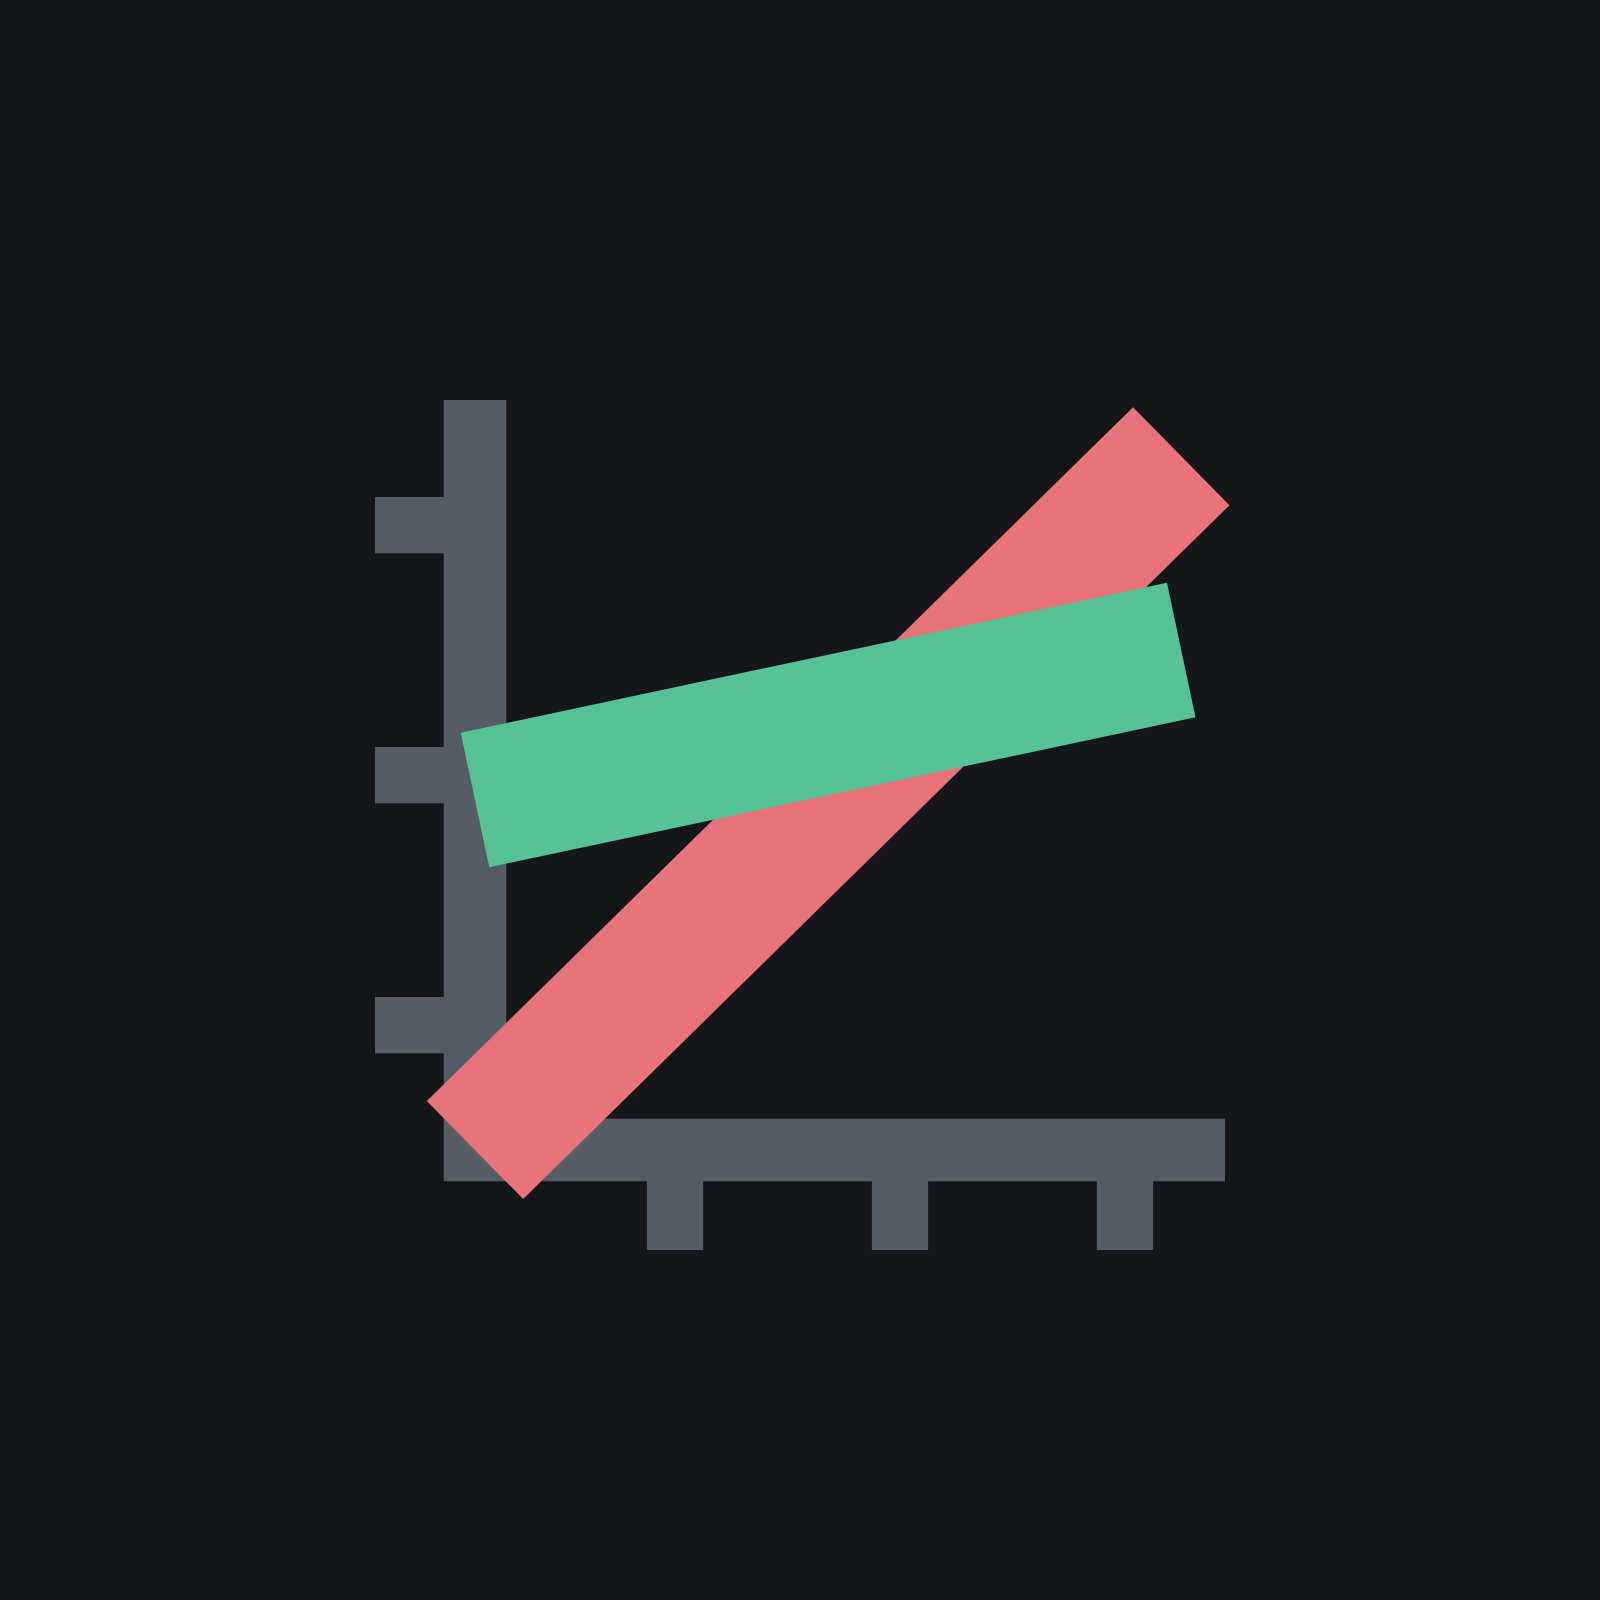
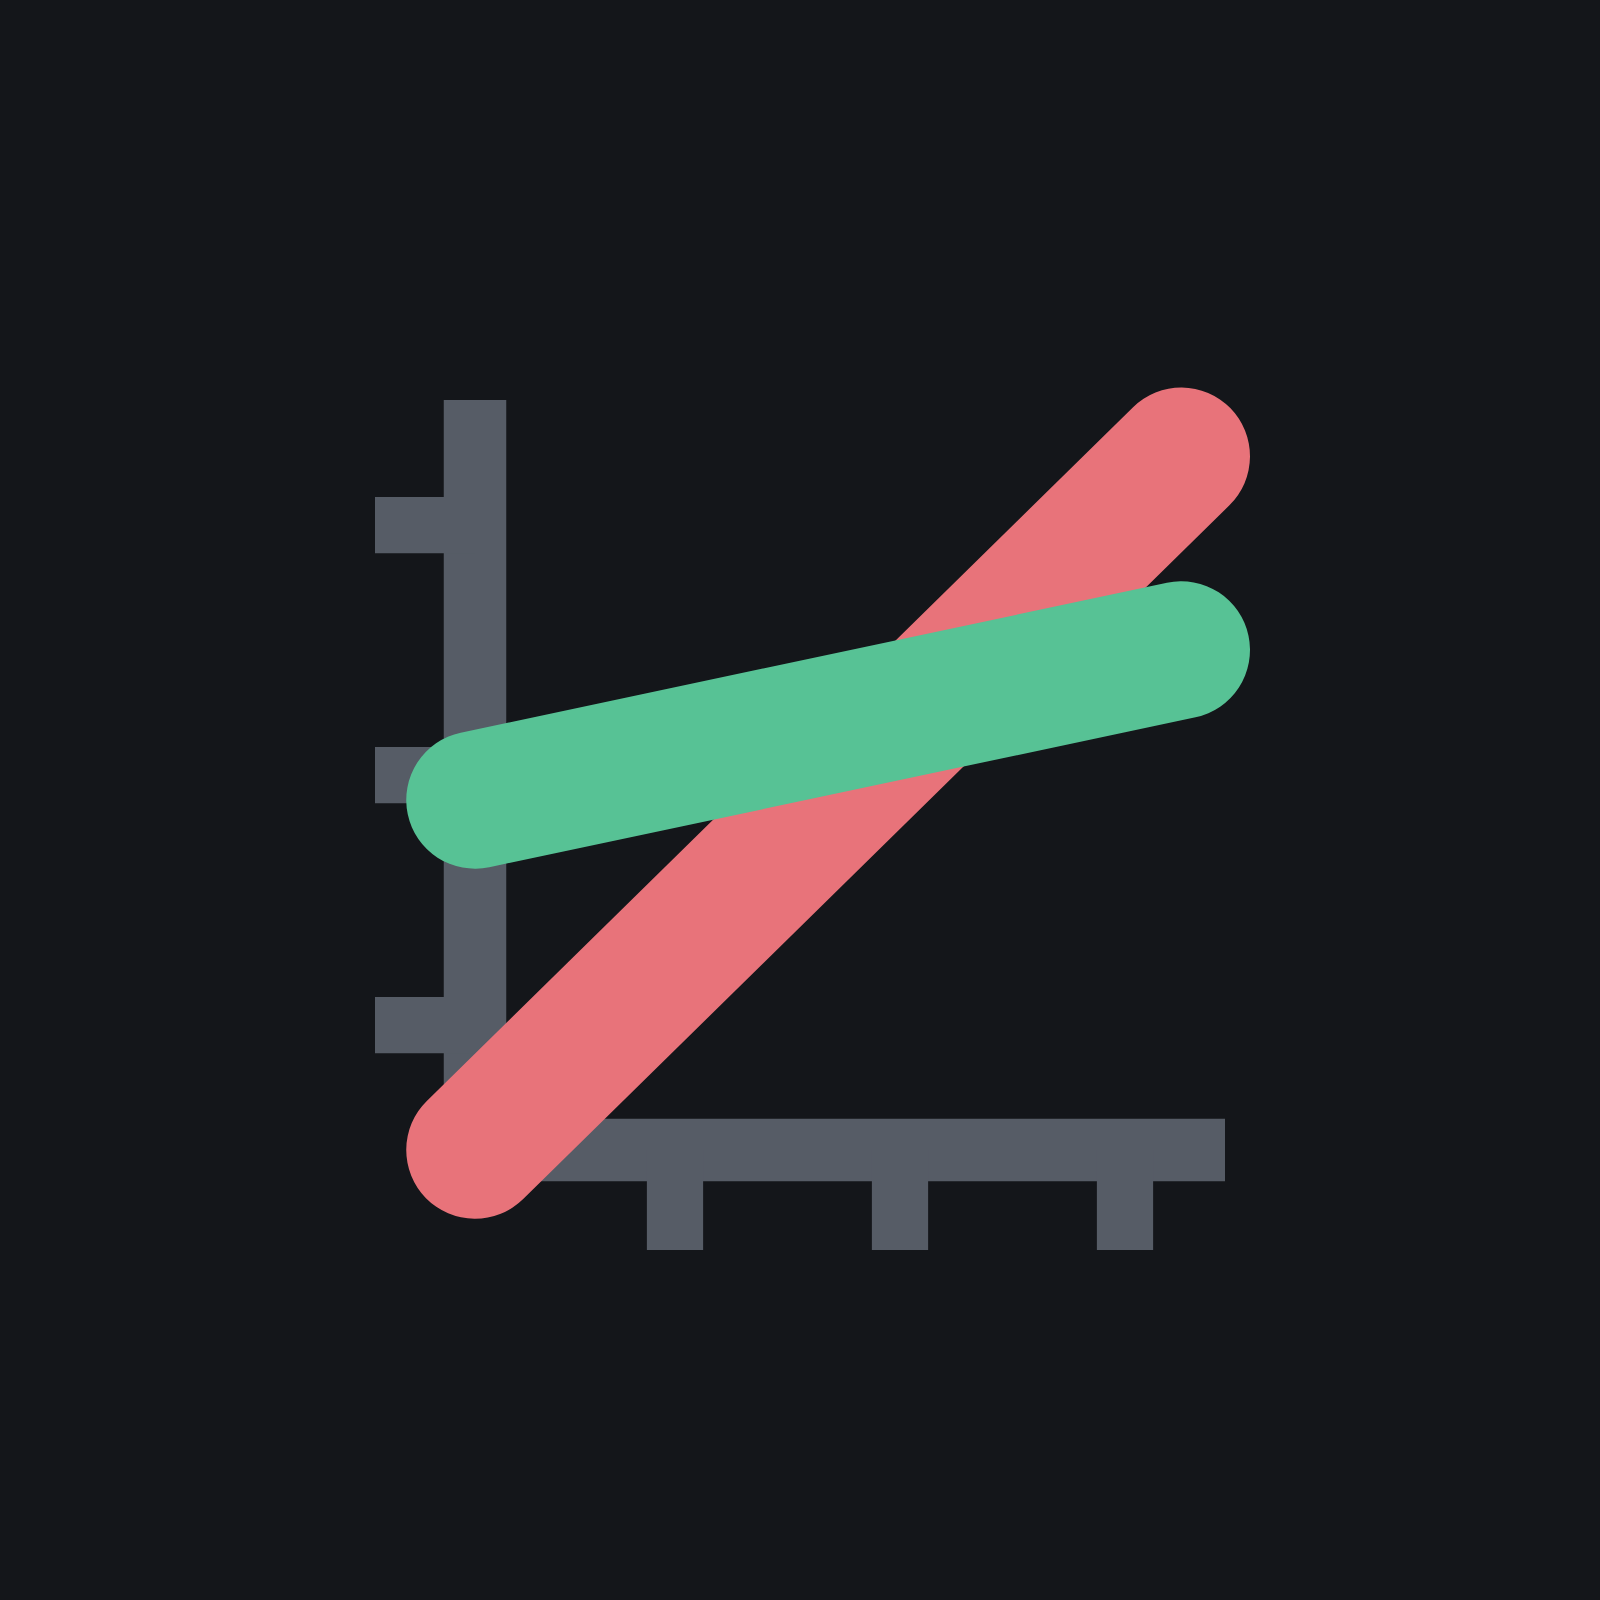
feat: music bed, rounded crossing, and a handoff document
The mark's data lines take rounded caps now — square ends meeting at the
crossing read as a hard corner, while rounded ones let the two lines pass
through each other cleanly. The axis keeps square ends, because an axis is a
rule rather than a stroke.

Videos carry a music bed: 32 seconds cut from a track the owner supplied,
faded in and out and levelled for music-only playback. It is a direct child of
the composition root, because the runtime only drives media that sits there and
anything nested renders silent. The mp3 stays out of git and
video/assets/bgm/LICENCE.json records its provenance with licence UNCONFIRMED
and blocks_public_release set — the project records where every price came
from, and a track shipping in thirty public videos deserves the same treatment.

Found while doing it: `nohup node video/build.js --render` ran on Node 18,
because a detached shell does not source nvm. Every render failed with a clear
message nobody read, and the script exited 0 — leaving thirty stale videos that
looked freshly built, one of which I had already sent for review. Batch renders
now check their own runtime up front and exit non-zero if any render fails.
Silence is the worst possible outcome for a build step.

Adds HANDOFF.md, so this can be picked up cold: current state, what runs
unattended, what is blocked and on whom, the rules that are enforced by tests
rather than convention, and every trap that has actually cost time — with the
[…]

diff --git a/video/build.js b/video/build.js
@@ -21,6 +21,7 @@ const { readJson, listJson, p } = require('../pipeline/lib/store.js');
 const chart = require('../site/assets/chart.js');
 
 const OUT = path.join(__dirname, 'out');
+const BGM_SRC = path.join(__dirname, 'assets', 'bgm', 'bed.mp3');
 const SITE_URL = (process.env.SITE_URL || 'nimbussage.github.io/exit-cost').replace(/^https?:\/\//, '');
 let TOTAL_ESCAPES = 20;
 
@@ -41,7 +42,7 @@ const MARK = `<svg viewBox="0 0 512 512" aria-hidden="true">
     <path d="M152 128 L152 368 L392 368" stroke-width="20"/>
     <g stroke-width="18"><path d="M120 168 H152 M120 248 H152 M120 328 H152"/><path d="M216 400 V368 M288 400 V368 M360 400 V368"/></g>
   </g>
-  <g fill="none" stroke-linecap="butt">
+  <g fill="none" stroke-linecap="round">
     <path d="M152 368 L378 146" stroke="#a81e27" stroke-width="44"/>
     <path d="M152 256 L378 208" stroke="#0b5137" stroke-width="44"/>
   </g></svg>`;
@@ -91,6 +92,8 @@ function chartSvg(e) {
   parts.push('</svg>');
   return parts.join('');
 }
+
+const BGM = fs.existsSync(BGM_SRC);
 
 function composition(e) {
   const r = e.result;
@@ -155,6 +158,10 @@ function composition(e) {
 <body>
 <div id="root" data-composition-id="short" data-width="${W}" data-height="${H}" data-duration="${DUR}" data-fps="${FPS}">
   <div class="bg"></div>
+${BGM ? `
+  <!-- Music bed. A direct child of the composition root: the runtime only drives
+       media that sits here, and anything nested renders silent. -->
+  <audio id="bgm" src="assets/bgm/bed.mp3" data-start="0" data-duration="${DUR}" data-track-index="0" data-volume="1"></audio>` : ''}
 
   <section id="scene-bill" class="clip" data-start="0" data-duration="5" data-track-index="1">
     <p class="kicker" id="s1-k">You pay for <b>${esc(inc)}</b>${seats > 1 ? `, ${seats} seats` : ''}.</p>
@@ -277,7 +284,17 @@ function main() {
   console.log(`generated ${made.length} compositions in video/out`);
 
   if (render) {
-    const bin = path.join(__dirname, '..', 'node_modules', '.bin', 'hyperframes');
+    // Fail early and legibly. A detached shell does not source nvm, so this
+    // silently ran on Node 18 and every render failed with a message nobody
+    // read — leaving thirty stale videos that looked freshly built.
+    const major = Number(process.versions.node.split('.')[0]);
+    if (major < 22) {
+      console.error(`FATAL: rendering needs Node >= 22, this is ${process.versions.node}.`);
+      console.error('       In a detached shell, source nvm first:');
+      console.error('       . "$HOME/.nvm/nvm.sh" && nvm use 22 && node video/build.js --render');
+      process.exit(1);
+    }
+    const failures = [];
     for (const m of made) {
       const outFile = path.join(OUT, `${m.slug}.mp4`);
       console.log(`rendering ${m.slug} ...`);
@@ -286,8 +303,14 @@ function main() {
           { stdio: 'inherit', env: { ...process.env, HYPERFRAMES_SKIP_SKILLS: '1' } });
       } catch (err) {
         console.error(`  render failed for ${m.slug}`);
+        failures.push(m.slug);
       }
     }
+    if (failures.length) {
+      console.error(`\n${failures.length} of ${made.length} renders failed: ${failures.join(', ')}`);
+      process.exit(1);
+    }
+    console.log(`rendered ${made.length} videos`);
   }
   return made;
 }

diff --git a/HANDOFF.md b/HANDOFF.md
@@ -1,0 +1,175 @@
+# Handoff
+
+Read this first if you are picking this up cold. It is the state of things, the
+rules that are not obvious from the code, and the traps that have already cost
+time. `README.md` is the pitch; this is the operating manual.
+
+Last updated: 2026-09-21, day 22.
+
+---
+
+## What this is
+
+Exit Cost computes the real cost of leaving a SaaS subscription, **including the
+operator's own time**, and publishes the hourly rate at which the answer flips.
+That rate is the only original thing here; everything else is plumbing around it.
+
+Live: https://nimbussage.github.io/exit-cost/ · Repo: NimbusSage/exit-cost
+
+The goal is $100/day with near-zero operating cost. It is not there. It earns
+through one referral programme and has no measured traffic yet.
+
+---
+
+## State
+
+| | |
+|---|---|
+| Comparisons live | 30 — 19 switch, 1 marginal, 10 stay |
+| Tests | 253, all passing (`npm test`) |
+| Preflight | 8/8 (`npm run verify`) |
+| Unattended nightly runs | 22 consecutive days, zero drift |
+| Prices self-confirming | 20 of 21 |
+| Revenue | Vultr referral on 23 pages. Nothing else. |
+| Traffic | Unmeasured. Search Console verified, no data yet. |
+| Deployment kits | 3, each deployed and verified by running it |
+| Videos | 30 rendered, none published |
+
+Gate 1 (30 comparisons + 7 unattended days) is met. Gates 2–4 depend on traffic
+and cannot be evaluated.
+
+---
+
+## What runs without anyone
+
+- **Nightly 05:17 UTC** (`.github/workflows/publish.yml`) — refresh every
+  hosting catalogue and vendor pricing page, rebuild, redeploy, then smoke-test
+  the live site and fail loudly if it broke. Commits refreshed prices back, which
+  is the audit trail.
+- **Mondays 14:00 UTC** (`.github/workflows/report.yml`) — files the weekly
+  report as a GitHub issue, which emails the owner.
+
+If you change anything that affects published numbers, run `npm test &&
+npm run verify` before pushing. CI runs both anyway.
+
+---
+
+## Blocked on a human
+
+1. **YouTube consent.** `ops/youtube-auth.mjs` must be run on a machine with a
+   browser; a loopback redirect cannot reach a headless server. It prints a
+   refresh token for `YOUTUBE_REFRESH_TOKEN`. Until then nothing can be
+   published. `pipeline/publish/youtube.js` is built and waiting.
+2. **The music bed's licence.** `video/assets/bgm/LICENCE.json` is marked
+   UNCONFIRMED and `blocks_public_release: true`. Do not publish a video using
+   it until the source is confirmed.
+3. **Analytics.** Search Console is verified but has no data. Gates 2 and 3 are
+   unanswerable until it does.
+
+---
+
+## Rules that are not negotiable
+
+Enforced by tests, not convention. Do not weaken them to make something pass.
+
+- A collector that fails keeps the last known value and **never** advances
+  `verified_at`.
+- An unknown cost makes a comparison refuse to compute rather than approximate.
+- Prices past their freshness window do not publish.
+- A dormant or archived upstream project blocks publication regardless of price.
+- Affiliate links never touch provider selection. That is a pure function of
+  price and requirements, and `test/affiliates.test.js` asserts the published
+  numbers are byte-identical with and without a programme active.
+- If every comparison ever says "switch", `ops/verify.js` fails the build. A
+  site where self-hosting always wins is an advert, not a comparison.
+- Never state a URL, price or programme term that has not been fetched in this
+  session. Four invented affiliate URLs cost a day.
+
+---
+
+## Traps that have actually bitten
+
+Each of these cost real time. They are pinned by regression tests; if a test
+here looks strange, this is why.
+
+- **"Billed annually" is a cadence, not a unit.** "$20 per seat/month, billed
+  annually" is $20 a *month*. Reading it as yearly is a 12x error.
+- **A price belongs to the last plan name before it.** Any window that searches
+  backwards lets a "contact sales" tier inherit the price above it. In the
+  PikaPods catalogue the price *follows* its app — reading the preceding one
+  shifts every price by a row.
+- **The extractor needs the page's other tier names**, not just the plans we
+  store, or untracked tiers bleed their prices into tracked ones
+  (`page_plan_names` in `data/saas.json`).
+- **Some vendors never state a field near the price.** Vercel's headline omits
+  that it is per developer seat. A plan declares `check_ignores` with an
+  `extraction_note`; the amount itself can never be exempt.
+- **`pg_isready` lies during startup.** It answers yes to the temporary
+  postmaster `initdb` runs, so a healthcheck goes green before the database
+  exists. Query the database instead.
+- **One failed fetch must not erase a provider.** It did, and took the only
+  revenue link off every page while everything looked healthy. Exclusion is by
+  `verified_at` age, never by "the last fetch failed".
+- **HTTP 200 is not evidence a deploy works.** A deploy once returned 200 on
+  every URL while serving a completely unstyled page. `ops/smoke.js` follows the
+  live page's own references.
+- **`site/build.js` clears `dist/` every run.** Root-level files that must
+  survive (search-engine verification) go in `site/static/`.
+- **Test files run in parallel and two of them build the site.** Each builds
+  into its own temp directory via `EXITCOST_DIST`.
+- **`p()` in `pipeline/lib/store.js` joins against the repo root.** Passing it an
+  absolute path writes to a nested duplicate tree.
+- **A detached shell does not source nvm.** `nohup node video/build.js --render`
+  ran on Node 18, every render failed, and the script exited 0 — leaving thirty
+  stale videos that looked freshly built. Batch renders now check their own
+  runtime and exit non-zero on any failure. Background anything long as:
+  `. "$HOME/.nvm/nvm.sh" && nvm use 22 && …`
+
+---
+
+## Things that are true and easy to get wrong
+
+- **DigitalOcean pricing needs no account.** It is read from their public
+  pricing page. A token is preferred if one exists but is not required.
+- **Hetzner is unavailable** — pricing is not extractable without an account,
+  and they have no affiliate programme, so it costs accuracy and no revenue.
+- **The DigitalOcean affiliate application was rejected**, most likely because
+  the AWIN publisher account is registered as InferHaven, which is a competitor.
+  Do not reapply under that profile.
+- **The affiliate layer for this audience is genuinely thin.** That is tested,
+  not assumed — see `data/affiliates.json` `_research`. The deployment kits and
+  the managed-hosting column are the better revenue paths.
+- **Do not run a kit's `install.sh` on the workstation.** It enables `ufw` and
+  would cut the owner's tmux sessions.
+- **Docker works here** (LXC, nesting already enabled, overlayfs). Kits are
+  validated by deploying them, not by reading them.
+
+---
+
+## Where decisions are recorded
+
+- `data/affiliates.json` — every programme, its status, and why. Includes the
+  research that ruled programmes out, so it is not repeated.
+- `data/saas.json` — every price with the sentence from the vendor page that
+  justifies it, plus any declared unverifiable fields and why.
+- `kits/apps/*.json` — each kit's spec and a `validated` block recording what
+  was actually run and what was not.
+- `video/assets/bgm/LICENCE.json` — provenance for the music bed.
+- Commit messages. They explain *why*, including the bugs found and what they
+  cost. `git log` is the design history.
+
+---
+
+## If you are wondering what to do next
+
+In rough order of value:
+
+1. Nothing, if the owner has not unblocked YouTube. Publishing is the next real
+   step and it needs their consent run.
+2. More comparisons. Search surface is the binding constraint. Use
+   `ops/price-probe.js` to research a vendor, read the quoted context yourself,
+   and store the price by hand — never wire extraction straight into the dataset.
+3. More kits, validated by deploying them. `kits/build.js --verify` checks every
+   pinned image tag against the registry.
+4. Do not build more tooling. There is enough. The constraint is traffic and
+   revenue, not capability.

diff --git a/README.md b/README.md
@@ -1,5 +1,8 @@
 # Exit Cost
 
+> Picking this up cold? Read [HANDOFF.md](HANDOFF.md) first — state, the rules
+> that are not obvious from the code, and the traps that have already cost time.
+
 **What it really costs to leave a SaaS subscription — including your own time.**
 
 [nimbussage.github.io/exit-cost](https://nimbussage.github.io/exit-cost/) · [open data](https://nimbussage.github.io/exit-cost/data/) · [method](https://nimbussage.github.io/exit-cost/method/)
